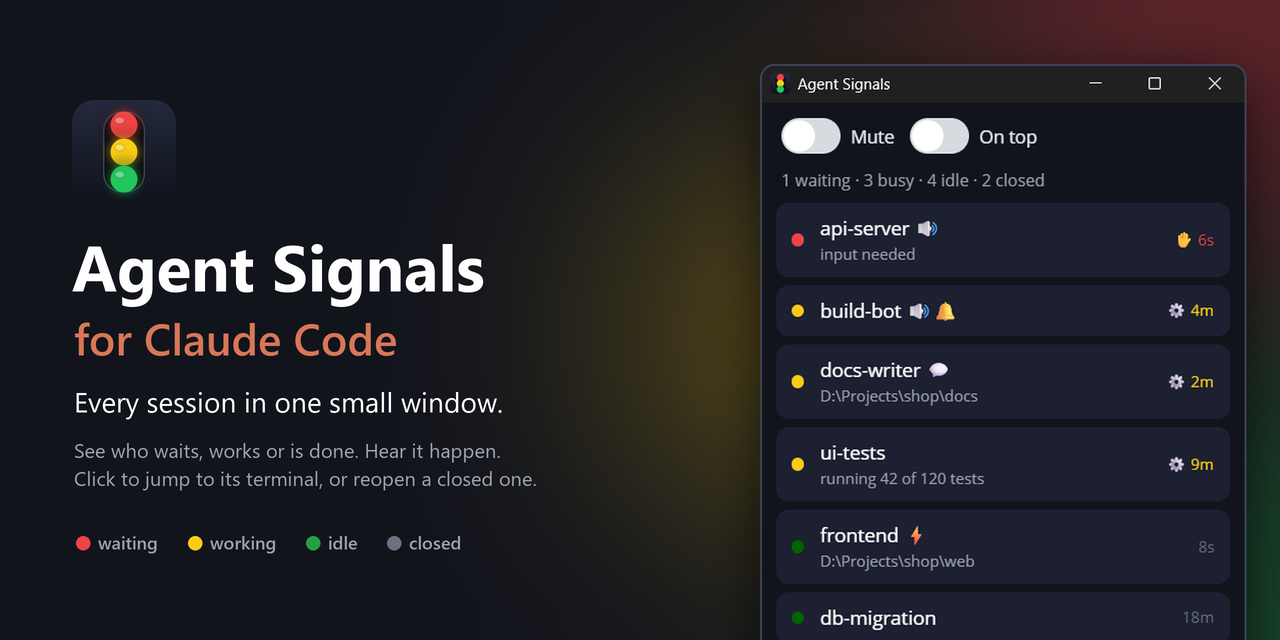
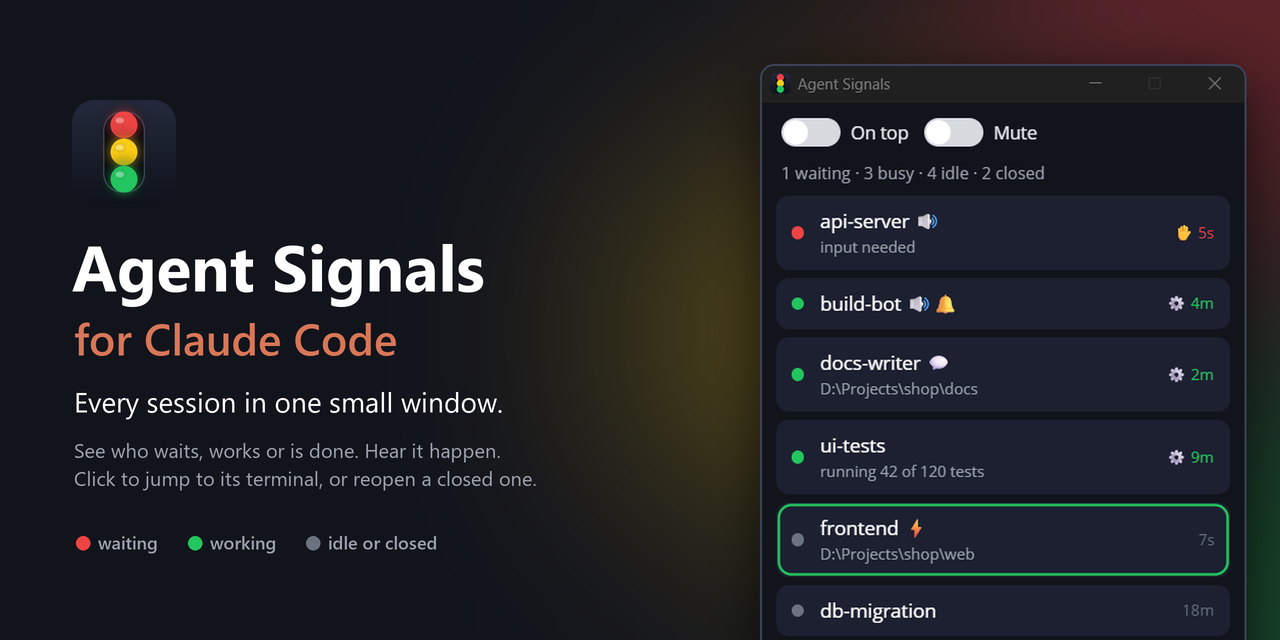
Status dots: green while working, gray when idle (as closed); the finished-unseen outline moves nothing
README, screenshot and banner show the new colors.

Claude-Session: https://claude.ai/code/session_01MRKX6dThumLK7V6QQPno4S

diff --git a/src/lib.rs b/src/lib.rs
@@ -434,12 +434,15 @@ fn section(title: &str) -> Build<SkiaLabel> {
     label(title, 13).text_color(hex(0x9CA3AF)).margin((4, 12, 0, 0))
 }
 
+/// Idle and closed sessions: the quiet gray.
+const IDLE: u32 = 0x6B7280;
+
 fn status_color(status: &str) -> Color {
     match status {
-        // Semaphore: red asks you something, yellow works, dark green is free.
+        // Red asks you something, green works, gray rests (as closed sessions are gray).
         "waiting" => hex(0xEF4444),
-        "busy" => hex(0xFACC15),
-        _ => hex(0x006400), // darkgreen: idle is the quiet state
+        "busy" => hex(0x22C55E),
+        _ => hex(IDLE),
     }
 }
 
@@ -450,13 +453,7 @@ fn session_row(pid: u32, name: String) -> Build<SkiaShape> {
     SkiaShape::new()
         .corner_radius(10)
         .background_color(hex(ROW))
-        .observe(move |me, app: &App| {
-            me.set_background_color(row_color(app.tint(&tint)));
-            // Finished while its tab was not in front: outlined in the idle green until seen.
-            let unseen = app.session(pid).is_some_and(|s| app.unseen.contains(&s.id));
-            me.set_stroke_color(if unseen { hex(0x22C55E) } else { Color::TRANSPARENT });
-        })
-        .stroke_width(2)
+        .observe(move |me, app: &App| me.set_background_color(row_color(app.tint(&tint))))
         .padding((12, 10, 12, 10))
         .fill_x()
         .accessibility_role(Aria::BUTTON)
@@ -477,6 +474,17 @@ fn session_row(pid: u32, name: String) -> Build<SkiaShape> {
             true
         })
         .children((
+            // Finished while its tab was not in front: outlined until seen. Its own layer over
+            // the whole row, so showing it moves nothing.
+            SkiaShape::new()
+                .fill()
+                .margin((-12, -10, -12, -10))
+                .corner_radius(10)
+                .stroke_width(2)
+                .observe(move |me, app: &App| {
+                    let unseen = app.session(pid).is_some_and(|s| app.unseen.contains(&s.id));
+                    me.set_stroke_color(if unseen { hex(0x22C55E) } else { Color::TRANSPARENT });
+                }),
             SkiaShape::new()
                 .corner_radius(5)
                 .width_request(10)
@@ -511,7 +519,7 @@ fn session_row(pid: u32, name: String) -> Build<SkiaShape> {
                 .vertical_options(LayoutOptions::Center)
                 .observe(move |me, app: &App| {
                     let Some(s) = app.session(pid) else { return };
-                    me.set_text_color(if s.status == "idle" { hex(0x6B7280) } else { status_color(&s.status) });
+                    me.set_text_color(status_color(&s.status));
                     // Idle needs no icon: the green dot says it.
                     let icon = match s.status.as_str() {
                         "busy" => "⚙ ", // no U+FE0F: without text shaping it only adds an empty advance
@@ -550,7 +558,7 @@ fn closed_row(id: String, name: String) -> Build<SkiaShape> {
             true
         })
         .children((
-            SkiaShape::new().corner_radius(5).width_request(10).height_request(10).vertical_options(LayoutOptions::Center).background_color(hex(0x6B7280)),
+            SkiaShape::new().corner_radius(5).width_request(10).height_request(10).vertical_options(LayoutOptions::Center).background_color(hex(IDLE)),
             SkiaStack::new().margin((22, 0, 84, 0)).spacing(2).children((
                 label(&name, 15).text_color(hex(0x9CA3AF)),
                 label("", 12).text_color(hex(0x6B7280)).max_lines(2).observe(move |me, app: &App| {

diff --git a/dev/make_banner.py b/dev/make_banner.py
@@ -39,7 +39,9 @@ d.text((74 * S, 464 * S), "Click to jump to its terminal, or reopen a closed one
 # Status legend.
 x = 76
 f = font("seguisb.ttf", 18)
-for label, c in [("waiting", RED), ("working", YELLOW), ("idle", GREEN), ("closed", GRAY)]:
+# The app's status dots: red waits for you, green works, gray rests or is closed.
+WORKING = (34, 197, 94)
+for label, c in [("waiting", RED), ("working", WORKING), ("idle or closed", GRAY)]:
     d.ellipse([x * S, 536 * S, (x + 14) * S, 550 * S], fill=c)
     d.text(((x + 22) * S, 530 * S), label, font=f, fill=MUTED)
     x += 22 + int(d.textlength(label, font=f) / S) + 30

diff --git a/README.md b/README.md
@@ -8,7 +8,7 @@ which one is done, which one is waiting for your answer, and which one is still 
 puts all of them in one small window and tells you when something happens, so you stop cycling
 through tabs to find out.
 
-- **See every session at a glance**: red is waiting for you, yellow is working, green is free.
+- **See every session at a glance**: red is waiting for you, green is working, gray is free.
 - **Know when one finishes**: right-click a session and turn on what you want: a spoken
   "api-server finished", a sound, a notification, a flashing taskbar or Dock icon.
 - **Jump to it**: click a session to bring its terminal tab to the front.
@@ -18,7 +18,7 @@ through tabs to find out.
 Nothing to configure in Claude Code: the app reads the list of sessions Claude Code already keeps.
 Windows and macOS, written in Rust, its UI drawn with [DrawnUi.Rust](https://github.com/DrawnUi/DrawnUi.Rust).
 
-<img src="docs/screenshot.png" alt="Agent Signals: sessions waiting (red), working (yellow) and idle (green) with their signal icons, closed sessions in gray ready to reopen, and recent events" width="420">
+<img src="docs/screenshot.png" alt="Agent Signals: sessions waiting (red), working (green) and idle (gray) with their signal icons, one outlined because it finished unseen, closed sessions ready to reopen, and recent events" width="420">
 
 ## The window
 
@@ -101,9 +101,9 @@ The list scrolls when it is longer than the window; the bar on the right shows w
 | On a row | Meaning |
 |---|---|
 | 🔴 red dot | The session waits for you: a question, a permission dialog. |
-| 🟡 yellow dot | The session is working. |
-| 🟢 dark green dot | The session is idle: it finished and has nothing to do. |
-| ⚪ gray dot, "closed 2h" | The session is closed: its terminal is gone. Click to reopen it. |
+| 🟢 green dot | The session is working. |
+| ⚪ gray dot | The session is idle: it finished and has nothing to do. |
+| ⚪ gray dot, gray name, "closed 2h" | The session is closed: its terminal is gone. Click to reopen it. |
 | green outline | It finished while you were not looking at its terminal tab. It goes when you click the row, switch to its tab, or it starts working again. |
 | ✋ 1m | Waiting for you, for 1 minute so far. |
 | ⚙ 4m | Working, for 4 minutes so far. |
